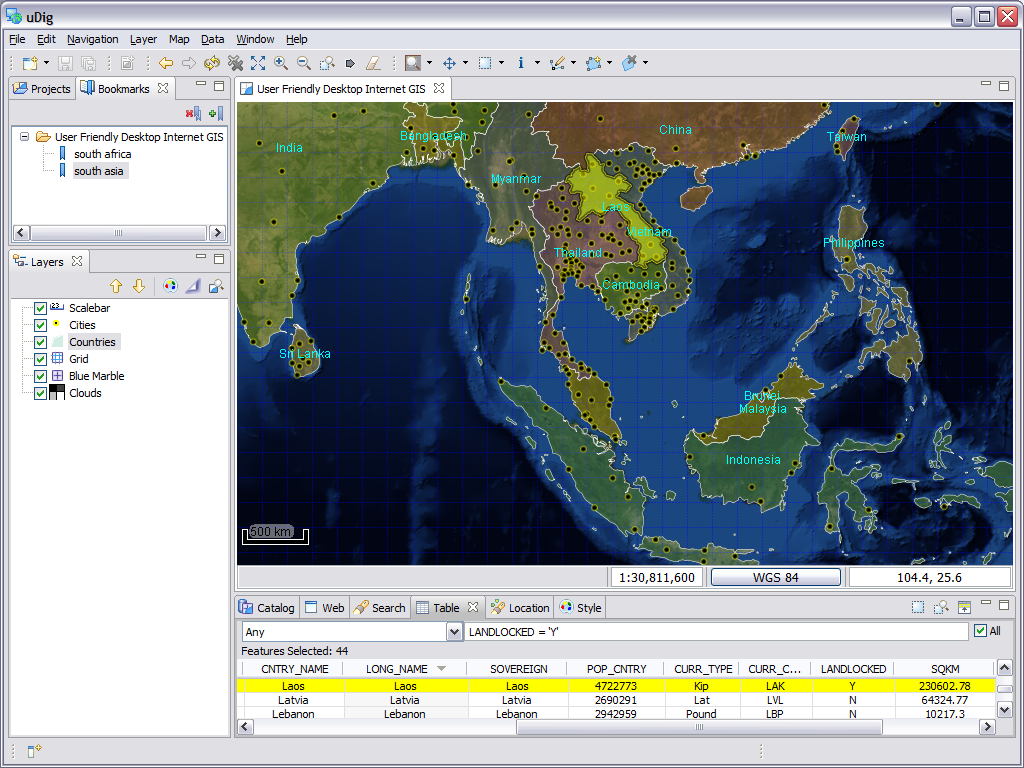
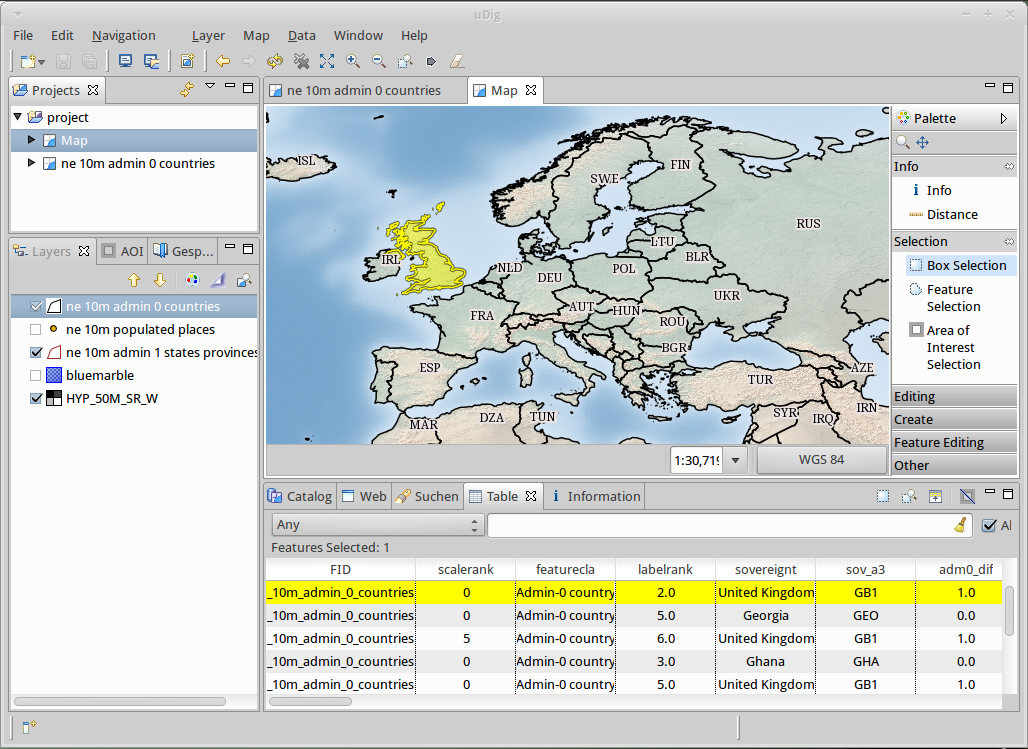
updated screenshots for uDIG 1.4.0
git-svn-id: http://svn.osgeo.org/osgeo/livedvd/gisvm/trunk/doc@10365 7da46fd8-bd2a-0410-a152-cf9810cf5b10

diff --git a/el/quickstart/udig_quickstart.rst b/el/quickstart/udig_quickstart.rst
@@ -101,7 +101,7 @@ view). Αυτές οι όψεις περιγράφονται στη συνέχε
 
 #. Επιλέγουμε το επίπεδο clouds.jpg στον κατάλογο και στο σέρνουμε στο τέλος της λίστας
   
-  .. image:: ../../images/screenshots/800x600/udig_QuickstartCountriesMap.jpg
+  .. image:: ../../images/screenshots/800x600/udig_QuickstartCountriesMap.png
 
 .. note::
    Ένα από τα πρώτα ερωτήματα που συναντάμε όταν το uDig είναι υποψήφιο για χρήση από κάποιον οργανισμό είναι πόση μνήμη
@@ -233,7 +233,7 @@ Web Map Server
 
 #. Χρησιμοποιώντας την όψη  *επιπέδων (Layer)* επιλέξτε ζώνη ώρας, χώρες και το clouds.jpg με τη σειρά για να παρατηρήσετε το αποτέλεσμα
 
-	.. image:: ../../images/screenshots/800x600/udig_MapMylar.jpg
+	.. image:: ../../images/screenshots/800x600/udig_MapMylar.png
 		:scale: 70 %
 
 #. Μπορείτε να απενεργοποιήσετε αυτό το εφέ ανα πάσα στιγμή επιλέγοντας :menuselection:`Map --> Mylar` από το μενού εντολών

diff --git a/de/quickstart/udig_quickstart.rst b/de/quickstart/udig_quickstart.rst
@@ -153,7 +153,7 @@ Um einen ersten Eindruck der Anwendung zu gewinnen, werden wir Beispieldaten lad
 
 #. Wählen Sie den Layer `HYP_50M_SR_W` in der Layeransicht und schieben diesen per Drag&Drop an das Ende der Liste.
   
-  .. image:: ../../images/screenshots/800x600/udig_QuickstartCountriesMap.jpg
+  .. image:: ../../images/screenshots/800x600/udig_QuickstartCountriesMap.png
    :scale: 70 %
 
 .. Writing Tip:
@@ -281,7 +281,7 @@ Stile
 
 Mitunter ist es schwierig aufgrund der Stile der verschiedenen Layer das wesentliche auf der Karte zu erkennen. Es gibt die Möglichkeit über :menuselection:`Map --> Mylar` vom Applikationsmenü auf den in der **Layers** Ansicht ausgewählten zu fokussieren. Damit werden alle anderen Layer leicht transparent dargestellt. Klicken Sie in der **Layers** Ansicht auf unterschiedliche Layer, damit Sie eine Idee davon bekommen, wie dieser Effekt wirkt. Sie können diesen Effekt über :menuselection:`Map --> Mylar` wieder deaktivieren.
 
-	.. image:: ../../images/screenshots/800x600/udig_MapMylar.jpg
+	.. image:: ../../images/screenshots/800x600/udig_MapMylar.png
 		:scale: 70 %
 
 Was kann man noch probieren?

diff --git a/en/quickstart/udig_quickstart.rst b/en/quickstart/udig_quickstart.rst
@@ -166,7 +166,7 @@ To start out with we are going to load some of the sample data included on the D
 
 #. Select the `HYP_50M_SR_W` layer in the catalog view and drag it to the bottom of the list
   
-  .. image:: ../../images/screenshots/800x600/udig_QuickstartCountriesMap.jpg
+  .. image:: ../../images/screenshots/800x600/udig_QuickstartCountriesMap.png
    :scale: 70 %
 
 .. Writing Tip:
@@ -301,7 +301,7 @@ Style
 
 Sometimes it is a bit hard to see what is going on with layer providing much details. To get focused on the task you like to work on, you can choose :menuselection:`Map --> Mylar` from the menu bar. Using the *Layer* view select different layers in turn to see the effect. You can turn off this effect at any time using :menuselection:`Map --> Mylar` from the menu bar.
   
-	.. image:: ../../images/screenshots/800x600/udig_MapMylar.jpg
+	.. image:: ../../images/screenshots/800x600/udig_MapMylar.png
 		:scale: 70 %
 
 .. Writing tip

diff --git a/ca/quickstart/udig_quickstart.rst b/ca/quickstart/udig_quickstart.rst
@@ -137,7 +137,7 @@ Per començar carregarem algunes de les dades d'exemple incloses en el DVD.
 
 #. Seleccioneu la capa `HYP_50M_SR_W` en la vista de catàleg i arrossegueu-la al final de la llista.
   
-  .. image:: ../../images/screenshots/800x600/udig_QuickstartCountriesMap.jpg
+  .. image:: ../../images/screenshots/800x600/udig_QuickstartCountriesMap.png
    :scale: 70 %
 
 .. note::
@@ -261,7 +261,7 @@ Podeu focalitzar la vostra tasca en l'aspecte que més us interessi seleccionant
 Usant la vista *Layer* podeu seleccionar diferents capes per veure els efectes de l'aplicació dels estils.
 Per desactivar aquest efecte podeu fer servir en qualssevol moment l'opció :menuselection:`Map --> Mylar` de la barra de menú.
   
-	.. image:: ../../images/screenshots/800x600/udig_MapMylar.jpg
+	.. image:: ../../images/screenshots/800x600/udig_MapMylar.png
 		:scale: 70 %
 
 Coses per provar

diff --git a/es/quickstart/udig_quickstart.rst b/es/quickstart/udig_quickstart.rst
@@ -162,7 +162,7 @@ Para comenzar vamos a cargar algunos de los datos de ejemplo incluidos en el DVD
 
 #. Seleccione la capa clouds.jpg en la vista de catálogo y arrastrela al pie de la lista
   
-  .. image:: ../../images/screenshots/800x600/udig_QuickstartCountriesMap.jpg
+  .. image:: ../../images/screenshots/800x600/udig_QuickstartCountriesMap.png
 
 .. Writing Tip:
   Notes are used to provide descriptions and background information without
@@ -302,7 +302,7 @@ Estilo
 
 #. Utilizar la vista *Layer* para seleccionar timezone, counties y clouds.jpg sucesivamente para ver el efecto  
 
-	.. image:: ../../images/screenshots/800x600/udig_MapMylar.jpg
+	.. image:: ../../images/screenshots/800x600/udig_MapMylar.png
 		:scale: 70 %
 
 #. Se puede cambiar a apagado (off) este efecto en cualquier momento usando :menuselection:`Map --> Mylar` en la barra de menú  

diff --git a/zh/quickstart/udig_quickstart.rst b/zh/quickstart/udig_quickstart.rst
@@ -160,7 +160,7 @@ uDig 快速入门
 
 #. 选择 `HYP_50M_SR_W` 图层拖拽至列表底部。
   
-  .. image:: ../../images/screenshots/800x600/udig_QuickstartCountriesMap.jpg
+  .. image:: ../../images/screenshots/800x600/udig_QuickstartCountriesMap.png
    :scale: 70 %
 
 .. Writing Tip:
@@ -282,7 +282,7 @@ Map
 
 　　若图层较多，编辑样式时可能难以看清效果。点击 :menuselection:`Map --> Mylar` 并在 *Layer* 试图关闭一些图层可能有助于编辑。再次选取 :menuselection:`Map --> Mylar` 可以关闭这一效果。
   
-	.. image:: ../../images/screenshots/800x600/udig_MapMylar.jpg
+	.. image:: ../../images/screenshots/800x600/udig_MapMylar.png
 		:scale: 70 %
 
 .. Writing tip
